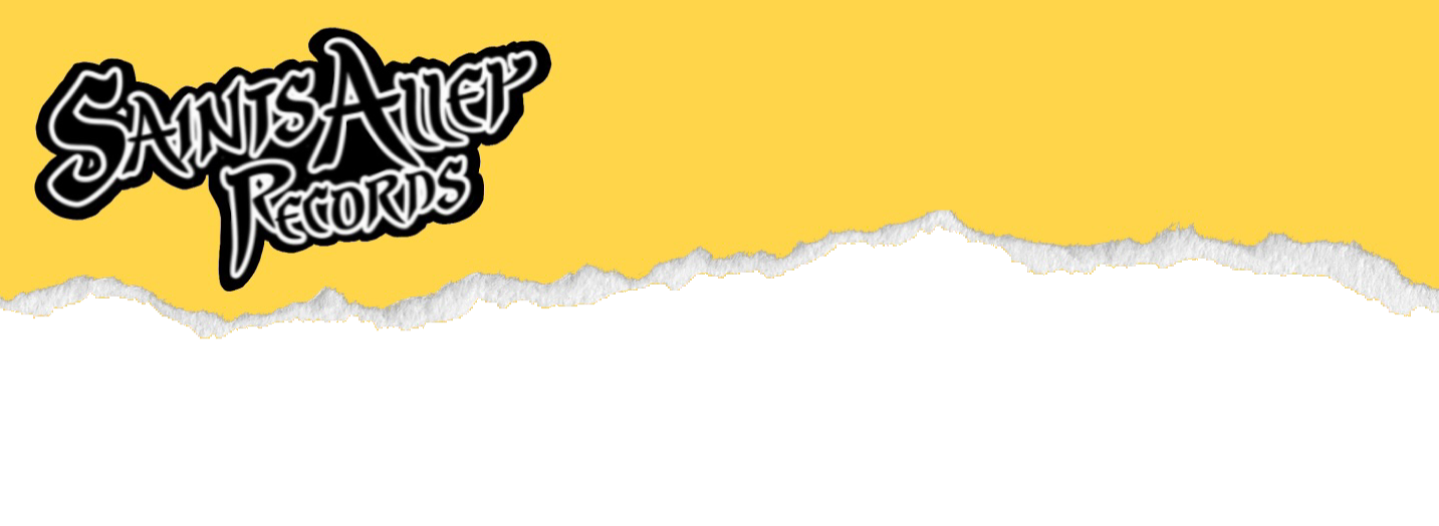
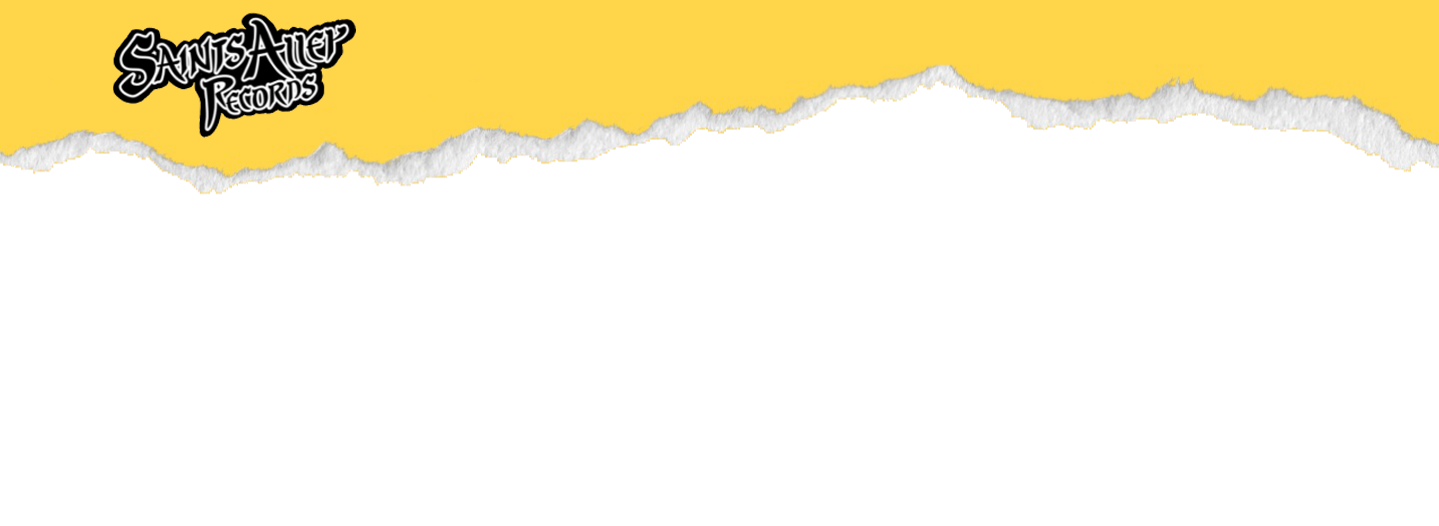
Navbar, Fonts

diff --git a/src/App.css b/src/App.css
@@ -1,0 +1,15 @@
+@import url('https://fonts.googleapis.com/css2?family=Rubik+Dirt&family=Special+Elite&display=swap');
+
+body {
+  overflow-x: hidden;
+  background-color: rgb(23, 22, 22);
+  color: white;
+}
+
+.rubik{
+  font-family: 'Rubik Dirt', cursive;
+}
+
+.elite{
+  font-family: 'Special Elite', cursive;
+}

diff --git a/src/App.tsx b/src/App.tsx
@@ -1,11 +1,12 @@
 import React from 'react';
-import './App.css';
 import 'bootstrap/dist/css/bootstrap.min.css';
+import Navi from './components/navi/navi';
+import './App.css';
 
 function App() {
   return (
     <div>
-     
+     <Navi/>
     </div>
   );
 }

diff --git a/src/components/navi/navi.tsx b/src/components/navi/navi.tsx
@@ -1,0 +1,13 @@
+import React from 'react';
+import './navi.css';
+
+export default function Navi() {
+
+  const n = require('../../assets/navbar.png');
+
+  return (
+    <div id='navi'>
+      <img src={n} className='img'/>
+    </div>
+  )
+}

diff --git a/src/components/navi/navi.css b/src/components/navi/navi.css
@@ -1,0 +1,4 @@
+#navi .img{
+    z-index: 2;
+    width: 100vw;
+}
